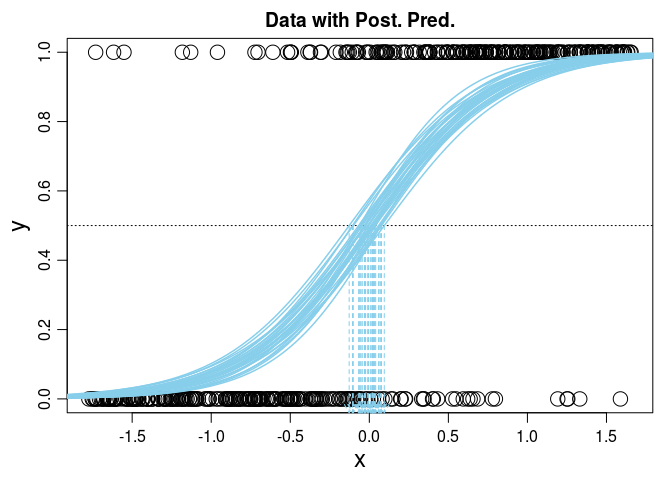
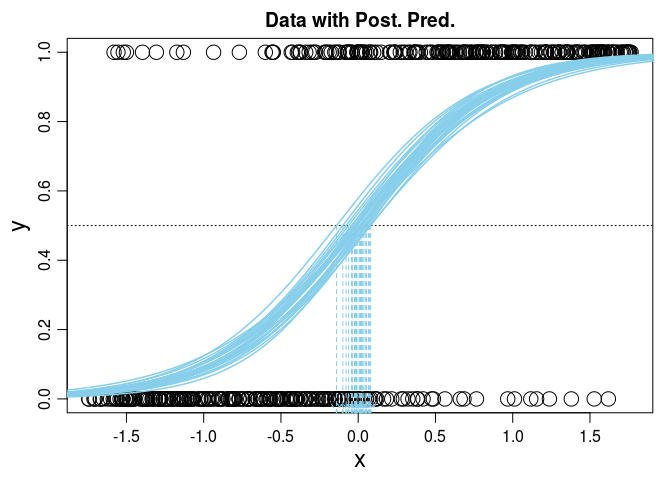
all

Changed region(s): [[0.0938, 0.0938, 0.9688, 0.9375], [0.2812, 0.875, 0.3438, 0.9375]]

diff --git a/01-book-Kruschke-DBDA/exercises/21-chapter/ex-21.md b/01-book-Kruschke-DBDA/exercises/21-chapter/ex-21.md
@@ -45,6 +45,7 @@ theme_set(theme_light())
 
 
 ```r
+set.seed(1)
 N <- 500
 
 b0 <- 0
@@ -69,6 +70,15 @@ for(i in 1:length(x)) {
 dat <- data.frame(y = y, y0 = y0, x = x, mu = mu, mu2 = mu2, mu3 = mu3, mu0 = mu0)
 ```
 
+#### Logit function on x
+
+
+```r
+plot(x, 1 / (1 + exp(-(b0 + b1*x))))
+```
+
+![](figures-21/logit-1.png) 
+
 #### Summary data
 
 The points with at extremes (0 or 1) are more definitive.
@@ -82,7 +92,7 @@ f1(dat$mu0)
 ```
 
 ```
-[1] 0.664
+[1] 0.676
 ```
 
 ```r
@@ -90,7 +100,7 @@ f1(dat$mu)
 ```
 
 ```
-[1] 0.578
+[1] 0.588
 ```
 
 ```r
@@ -110,7 +120,7 @@ range(dat$mu0)
 ```
 
 ```
-[1] 0.001175921 0.999260354
+[1] 0.0009370325 0.9991463181
 ```
 
 ```r
@@ -118,7 +128,7 @@ range(dat$mu)
 ```
 
 ```
-[1] 0.05105833 0.94933432
+[1] 0.05084333 0.94923169
 ```
 
 ```r
@@ -126,44 +136,39 @@ range(dat$mu2)
 ```
 
 ```
-[1] 0.2505880 0.7496302
+[1] 0.2504685 0.7495732
 ```
+
+See the same distribution on histograms.
+
+
+```r
+grid.arrange(qplot(dat$mu0) + xlim(0, 1) + ggtitle("guess = 0"), 
+  qplot(dat$mu) + xlim(0, 1) + ggtitle("guess = 0.1"), 
+  qplot(dat$mu2) + xlim(0, 1) + ggtitle("guess = 0.5"), 
+  ncol = 1)
+```
+
+![](figures-21/hist_mu-1.png) 
 
 
 #### Plot data
 
 
 ```r
-ggplot(dat, aes(mu0, mu)) + geom_point()
+grid.arrange(
+  ggplot(dat, aes(mu0, mu)) + geom_point(),
+  ggplot(dat, aes(x, log(mu0/(1-mu0)))) + geom_point() + ggtitle("guess = 0"),
+  ggplot(dat, aes(x, log(mu/(1-mu)))) + geom_point() + ggtitle("guess = 0.1"),
+  ggplot(dat, aes(x, log(mu2/(1-mu2)))) + geom_point() + ggtitle("guess = 0.5"),
+  ncol = 2)
 ```
 
 ![](figures-21/plot_dat-1.png) 
 
-```r
-ggplot(dat, aes(log(mu0/(1-mu0)), log(mu/(1-mu)))) + geom_point()
-```
+### Part B: Logistic regression
 
-![](figures-21/plot_dat-2.png) 
-
-```r
-ggplot(dat, aes(x, log(mu0/(1-mu0)))) + geom_point() + ggtitle("guess = 0")
-```
-
-![](figures-21/plot_dat-3.png) 
-
-```r
-ggplot(dat, aes(x, log(mu/(1-mu)))) + geom_point() + ggtitle("guess = 0.1")
-```
-
-![](figures-21/plot_dat-4.png) 
-
-```r
-ggplot(dat, aes(x, log(mu2/(1-mu2)))) + geom_point() + ggtitle("guess = 0.5")
-```
-
-![](figures-21/plot_dat-5.png) 
-
-### Part B
+#### Compute models
 
 
 ```r
@@ -182,12 +187,12 @@ out <- genMCMC(mod, dat, xName="x" , yName="y" ,
 ```
 
 
-
 ```r
 out0 <- genMCMC(mod, dat, xName="x" , yName="y0", 
   numSavedSteps=10000 , thinSteps=1)               
 ```
 
+#### Plot clean model
 
 
 ```r
@@ -197,6 +202,8 @@ plotMCMC(mod, out0 , dat , xName="x" , yName="y0",
 
 ![](figures-21/plot0-1.png) ![](figures-21/plot0-2.png) ![](figures-21/plot0-3.png) 
 
+#### Plot noisy model
+
 
 ```r
 plotMCMC(mod, out , dat , xName="x" , yName="y",
@@ -205,8 +212,49 @@ plotMCMC(mod, out , dat , xName="x" , yName="y",
 
 ![](figures-21/plot-1.png) ![](figures-21/plot-2.png) ![](figures-21/plot-3.png) 
 
+### Part C: Robust Logistic regression
+
+#### Compute models
 
 
+```r
+JagsYdichXmetMultiMlogisticRobust <- function()
+{
+  out <- list()
+  oldClass(out) <- "JagsYdichXmetMultiMlogisticRobust"
+
+  return(out)
+}
+
+mod2 <- JagsYdichXmetMultiMlogisticRobust()   
+
+out2 <- genMCMC(mod2, dat, xName="x" , yName="y" , 
+  numSavedSteps=10000 , thinSteps=1)                 
+```
+
+
+```r
+out20 <- genMCMC(mod2, dat, xName="x" , yName="y0", 
+  numSavedSteps=10000 , thinSteps=1)               
+```
+
+#### Plot models
+
+
+```r
+plotMCMC(mod2, out2 , dat , xName="x" , yName="y0",
+  showCurve=T) 
+```
+
+![](figures-21/plot2-1.png) ![](figures-21/plot2-2.png) ![](figures-21/plot2-3.png) 
+
+
+```r
+plotMCMC(mod2, out20 , dat , xName="x" , yName="y0",
+  showCurve=T) 
+```
+
+![](figures-21/plot20-1.png) ![](figures-21/plot20-2.png) ![](figures-21/plot20-3.png) 
 
 
 

diff --git a/01-book-Kruschke-DBDA/exercises/21-chapter/comparison-logit-probit.md b/01-book-Kruschke-DBDA/exercises/21-chapter/comparison-logit-probit.md
@@ -1,0 +1,95 @@
+# Comparison between logit and probit
+Andrey Ziyatdinov  
+`r Sys.Date()`  
+
+
+
+## Include 
+
+
+```r
+library(ggplot2)
+library(gridExtra)
+```
+
+### Include `dbda`
+
+
+```r
+load_all("~/git/variani/dbda/")
+```
+
+```
+
+*********************************************************************
+Kruschke, J. K. (2015). Doing Bayesian Data Analysis, Second Edition:
+A Tutorial with R, JAGS, and Stan. Academic Press / Elsevier.
+*********************************************************************
+```
+
+### Settings
+
+
+```r
+theme_set(theme_light())
+```
+
+## Inverse link functions
+
+
+```r
+ilogit <- function(x) 1 / (1 + exp(-x))
+iprobit <- binomial(link="probit")$linkinv
+iprobit
+```
+
+```
+function (eta) 
+{
+    thresh <- -qnorm(.Machine$double.eps)
+    eta <- pmin(pmax(eta, -thresh), thresh)
+    pnorm(eta)
+}
+<environment: namespace:stats>
+```
+
+## Data set
+
+
+```r
+set.seed(1)
+N <- 500
+
+b0 <- 0
+b1 <- 4
+
+x <- runif(N)
+x <- (x - mean(x)) / sd(x)
+
+mu1 <- ilogit(b0 + b1*x)
+mu2 <- iprobit(b0 + b1*x)
+
+y1 <- rep(NA, N)
+y2 <- rep(NA, N)
+for(i in 1:length(x)) {
+  y1[i] <- sample(c(0, 1), size = 1, prob = c(1 - mu1[i], mu1[i]))
+  y2[i] <- sample(c(0, 1), size = 1, prob = c(1 - mu2[i], mu2[i]))
+}
+
+dat <- data.frame(y1 = y1, y2 = y2, x = x, mu1 = mu1, mu2 = mu2)
+```
+
+#### Logit/Probit functions on x
+
+
+```r
+pdat <- data.frame(x = x,
+  ilogit = ilogit(b0 + b1*x),
+  iprobit = iprobit(b0 + b1*x))
+
+ggplot(pdat, aes(x, ilogit)) + geom_point() + geom_point(aes(x, iprobit), color = 'red')
+```
+
+![](logit-probit/logit_probit-1.png) 
+
+
